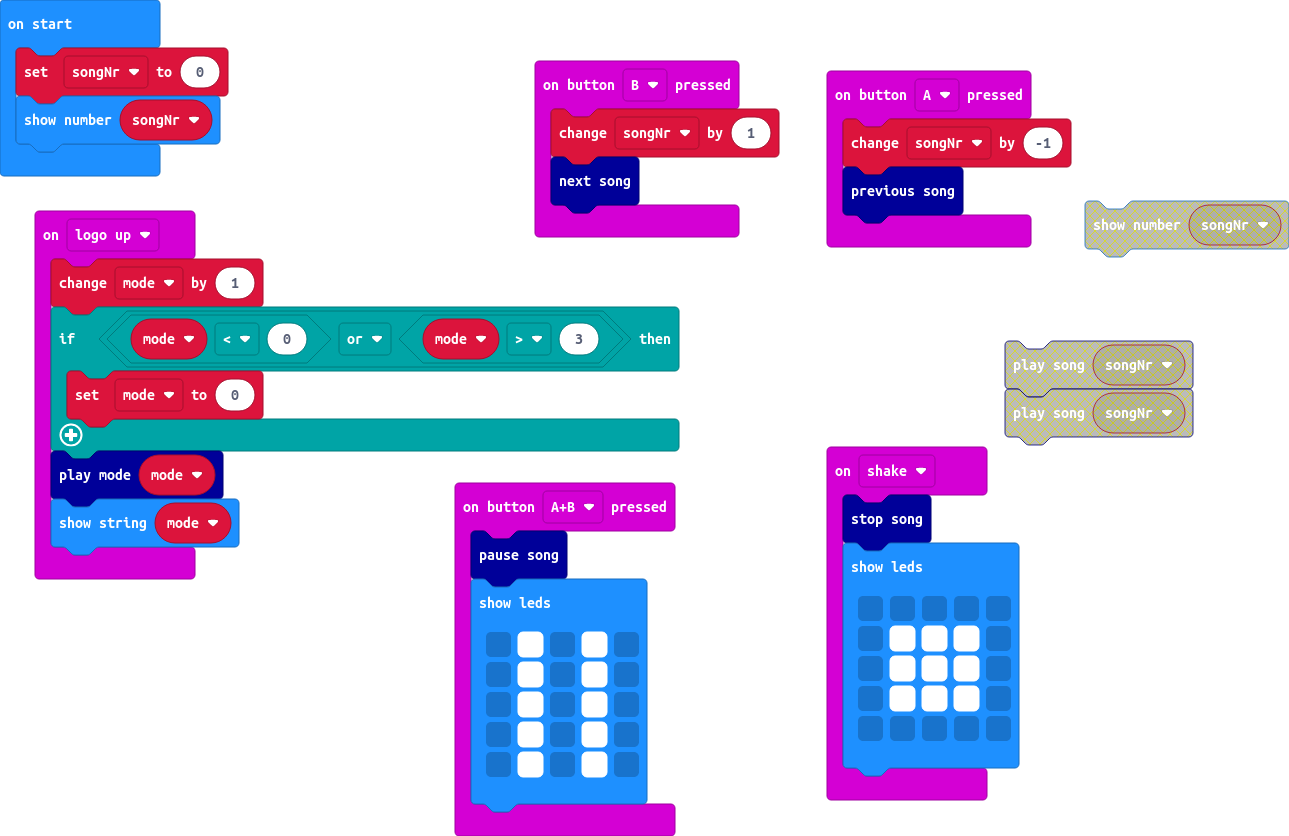
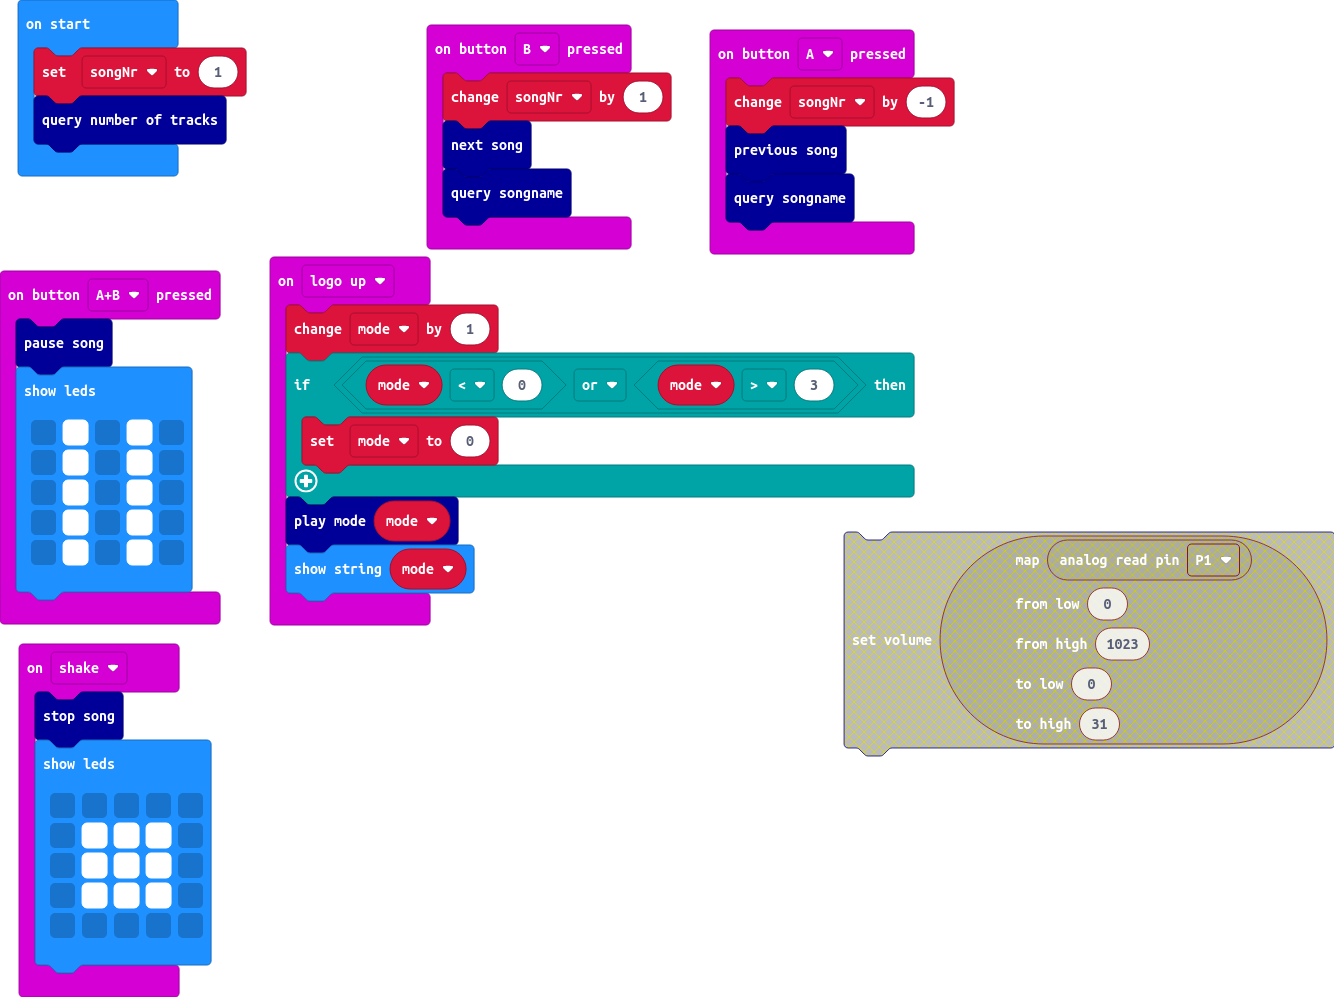
Update main.blocks, main.ts, mp3_v3.ts

diff --git a/mp3_v3.ts b/mp3_v3.ts
@@ -3,15 +3,11 @@ namespace mp3_V3 {
 
     //% block
     //% volume.min=0 volume.max=31
-    /**    export function setVolume(volume: number){
-        bufr.setNumber(NumberFormat.Int8LE, 0, 0x7e); //Start Code
-        bufr.setNumber(NumberFormat.Int8LE, 1, 0x04); //Length
-        bufr.setNumber(NumberFormat.Int8LE, 2, 0xAE); //Command
-        bufr.setNumber(NumberFormat.Int8LE, 3, 0x1F); //Volume Value
-        bufr.setNumber(NumberFormat.Int8LE, 4, 0x00); //Check-Code (Low Bite of: Lenght + Command + Data (Volume Value))
-        bufr.setNumber(NumberFormat.Int8LE, 5, 0xEF); //End Code
+    export function setVolume(volume: number){
+        let stringVol: string = volume.toString();
+        let hexArray: string[] = ["0x04","0xAE", stringVol];
+        writeBuffer(hexArray);
     }
-    */
 
     function zeroAdding(trackNumber: number): string {
         let s = trackNumber+"";
@@ -97,7 +93,31 @@ namespace mp3_V3 {
         control.waitMicros(200000);
     }
 
-    let bufr
+    //QUERY Funktionen 
+
+    //% block
+    export function querySongname(){
+    
+        let hexArray: string[] = ["0x03","0xCB"];
+        writeBuffer(hexArray);
+        
+        let songName = serial.readBuffer(32);
+        
+    }
+
+    //% block
+    export function queryNumberOfTracks(){
+
+        let hexArray: string[] = ["0x03","0xC5"];
+        writeBuffer(hexArray);
+
+        let numberOfTracks = serial.readBuffer(3);
+
+        let num = numberOfTracks.toString();
+        basic.showString("num");
+    }
+
+    let bufr;
     
     // MP3 Module set to Pin 0
     serial.redirect(
@@ -106,18 +126,4 @@ namespace mp3_V3 {
     BaudRate.BaudRate9600
     );
 
-    //initializeSDCard();
-    /**
-    function initializeSDCard(){
-        bufr.setNumber(NumberFormat.Int8LE, 0, 0x7e);
-        bufr.setNumber(NumberFormat.Int8LE, 1, 0x04);
-        bufr.setNumber(NumberFormat.Int8LE, 2, 0xd2);
-        bufr.setNumber(NumberFormat.Int8LE, 3, 0x01);
-        bufr.setNumber(NumberFormat.Int8LE, 4, 0xd7);
-        bufr.setNumber(NumberFormat.Int8LE, 5, 0xef);
-        
-        serial.writeBuffer(bufr);
-        control.waitMicros(200000);
-    }
-*/
 }

diff --git a/main.ts b/main.ts
@@ -1,6 +1,7 @@
 input.onButtonPressed(Button.A, function () {
     songNr += -1
     mp3_V3.previousSong()
+    mp3_V3.querySongname()
 })
 input.onGesture(Gesture.LogoUp, function () {
     mode += 1
@@ -23,6 +24,7 @@ input.onButtonPressed(Button.AB, function () {
 input.onButtonPressed(Button.B, function () {
     songNr += 1
     mp3_V3.nextSong()
+    mp3_V3.querySongname()
 })
 input.onGesture(Gesture.Shake, function () {
     mp3_V3.stopSong()
@@ -35,5 +37,5 @@ input.onGesture(Gesture.Shake, function () {
         `)
 })
 let mode = 0
-let songNr = 0
-basic.showNumber(songNr)
+let songNr = 1
+mp3_V3.queryNumberOfTracks()
